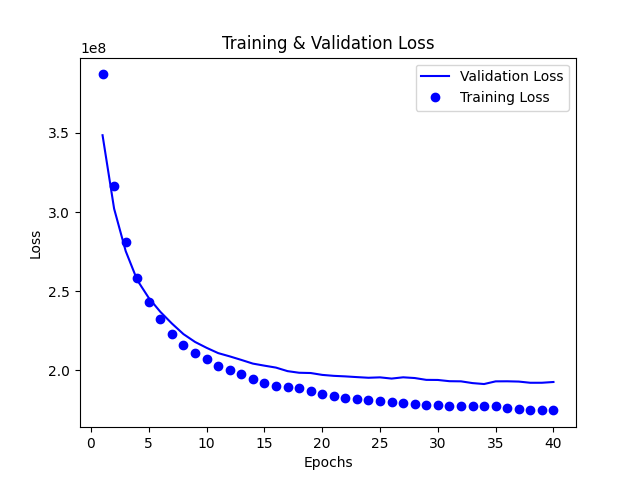
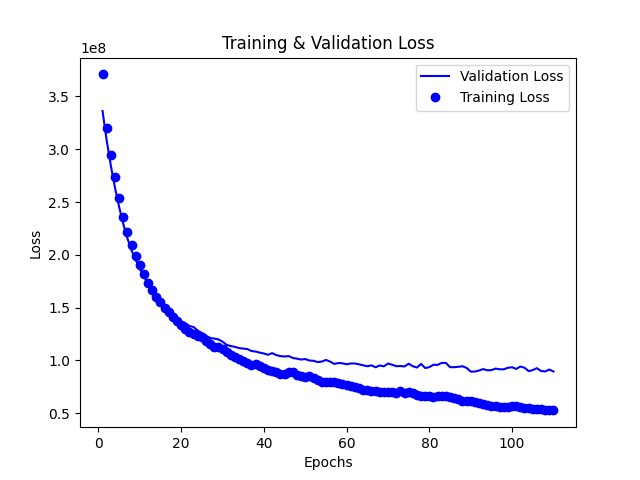
final drnn commit

diff --git a/restore_with_drnn.py b/restore_with_drnn.py
@@ -29,14 +29,15 @@ def run_top_gs_result(num_str, best_config,
     # train_batch_size = 4
     # # TEMP - make what PC can actually handle (3072 run, but definitely 2048)
     # train_batch_size = 6
+    # for smaller
     if low_time_steps:
         train_batch_size = 50   # 50 # 50 sometimes caused OOM
     else:
         train_batch_size = 4    # no dimred & no lowtsteps
     train_loss_const = best_config['gamma']
-    # EVAL CHANGE - for BVS dense layers gs - 0.3 meaningless
-    if low_time_steps:
-        train_loss_const = 0.1 # 0.15 # 0.3    # bad for looped noise & normal piano data
+    # # EVAL CHANGE - for BVS dense layers gs - 0.3 meaningless
+    # if low_time_steps:
+    #     train_loss_const = 0.1 # 0.15 # 0.3    # bad for looped noise & normal piano data
     train_epochs = best_config['epochs']
     # # EVAL CHANGE - change back
     if low_time_steps:
@@ -44,7 +45,7 @@ def run_top_gs_result(num_str, best_config,
     # train_epochs = 15 # TEMP - optimize learning
     # TEMP - exploit high epochs
     if train_epochs > 10:
-        patience = 10
+        patience = 10 # 20
     train_opt_name = best_config['optimizer']
     train_opt_clipval = None if (best_config['clip value'] == -1) else best_config['clip value']
     train_opt_lr = best_config['learning rate']
@@ -115,6 +116,7 @@ def run_top_gs_result(num_str, best_config,
         print('\nERROR happened in child and it died')
         exit(1)
     process_train.join()
+    recv_end.close()    # new, hopefully stops data persistence between eval_src_sep calls
 
     epoch_r = range(1, len(losses)+1)
     plt.plot(epoch_r, val_losses, 'b', label = 'Validation Loss')
@@ -125,7 +127,6 @@ def run_top_gs_result(num_str, best_config,
     plt.legend()
     plt.savefig('brahms_restore_ml/drnn/train_val_loss_chart' + name + '.png')
 
-    send_end, recv_end = None, None     # strange behavior fix?
     # evaluate_source_sep(x_train_files, y1_train_files, y2_train_files, 
     #                     x_val_files, y1_val_files, y2_val_files,
     #                     num_train, num_val,
@@ -183,7 +184,7 @@ def main():
     dmged_piano_only = True    # Promising w/ BVs
     # TRAIN DATA NOISE PARAMS
     loop_bare_noise = False     # to control bare_noise in nn_data_gen, needs curr for low_time_steps
-    artificial_noise = False
+    artificial_noise = True
 
     test_on_synthetic = False
     # wdw_size = PIANO_WDW_SIZE
@@ -192,26 +193,28 @@ def main():
     # gs_output_path = 'brahms_restore_ml/drnn/output_grid_search/'           # for use w/ grid search mode    
     # gs_output_path = 'brahms_restore_ml/drnn/output_grid_search_pc_wb/'     # PC
     # gs_output_path = 'brahms_restore_ml/drnn/output_grid_search_lstm/'    # F35
-    # gs_output_path = 'brahms_restore_ml/drnn/output_grid_search_wb/'        # best results  
+    gs_output_path = 'brahms_restore_ml/drnn/output_grid_search_wb/'        # best results  
     # gs_output_path = 'brahms_restore_ml/drnn/output_grid_search_low_tsteps_two/'       # low tsteps   2 
     # gs_output_path = 'brahms_restore_ml/drnn/output_grid_search_low_tsteps_big/'       # low tsteps   3
-    gs_output_path = 'brahms_restore_ml/drnn/output_grid_search_dmgpiano_bvs/'       # dmgpiano (bvs optional)
+    # gs_output_path = 'brahms_restore_ml/drnn/output_grid_search_dmgpiano_bvs/'       # dmgpiano (bvs optional)
     recent_model_path = 'brahms_restore_ml/drnn/recent_model'
+    # recent_model_path = 'brahms_restore_ml/drnn/recent_model_dmgedp_artn_151of3072'
     # recent_model_path = 'brahms_restore_ml/drnn/recent_model_149of3072'    # restore from curr best
     # recent_model_path = 'brahms_restore_ml/drnn/recent_model_111of144_earlystop'    # restore from curr best
     # recent_model_path = 'brahms_restore_ml/drnn/recent_model_3of4'    # restore from best in small gs
-    # infer_output_path = 'brahms_restore_ml/drnn/output_restore/'
+    infer_output_path = 'brahms_restore_ml/drnn/output_restore/'
     # infer_output_path = 'brahms_restore_ml/drnn/output_restore_gs3072_loopnoise/'    # eval, do_curr_best, 3072 combos, looped noise
     # infer_output_path = 'brahms_restore_ml/drnn/output_restore_151of3072_eval/'    # eval, tweaks curr_best
-    infer_output_path = 'brahms_restore_ml/drnn/output_restore_pbv_eval/'    # eval, tweaks curr_best
+    # infer_output_path = 'brahms_restore_ml/drnn/output_restore_pbv_eval/'    # eval, tweaks curr_best
+    # infer_output_path = 'brahms_restore_ml/drnn/output_restore_pbv_eval_nomask/'    # eval, tweaks curr_best
     brahms_path = 'brahms.wav'
 
     # To run best model configs, data_from_numpy == True & mode == train
-    do_curr_best, curr_best_combos, curr_best_done_on_pc = False, '9', True
+    do_curr_best, curr_best_combos, curr_best_done_on_pc = False, '3072', False
     # # F35 LSTM
     # top_result_nums = [72, 128, 24, 176, 8, 192, 88, 112]
     # F35 WB
-    # top_result_nums = [151] # [151, 151, 151, 151, 151] # temp - do 1 run # [1488, 1568, 149, 1496, 1680, 86, 151, 152]
+    top_result_nums = [151] # [151, 151, 151, 151, 151] # temp - do 1 run # [1488, 1568, 149, 1496, 1680, 86, 151, 152]
     # # # top_result_nums = [1488, 1568, 149, 1496, 1680, 86, 151, 152] 
     # # PC WB
     # top_result_nums = [997, 1184, 1312, 1310, 1311, 1736]
@@ -226,14 +229,17 @@ def main():
     # # Dmg piano data
     # top_result_nums = [1,2,3]
     # Dmg piano w/ BVs data
-    top_result_nums = [3,6,9]
+    # top_result_nums = [3,6,9]
+    # top_result_nums = [1] # try ignore noise loss
+    # top_result_nums = [1,3,1,3]   # for larger help, bs constant
+    # top_result_nums = [1,3,1,3,1,3,1,3]   # for larger help
     top_result_paths = [gs_output_path + 'result_' + str(x) + '_of_' + curr_best_combos +
                         ('.txt' if curr_best_done_on_pc else '_noPC.txt') for x in top_result_nums]
     # NEW
     output_file_addon = ''
-    data_from_numpy = False
+    data_from_numpy = True
     tuned_a430hz = False # may not be helpful, as of now does A=436Hz by default
-    basis_vector_features = True
+    basis_vector_features = False   # bust
     if tuned_a430hz:
         recent_model_path += '_a436hz' # tune_temp '_a430hz'
         output_file_addon += '_a436hz' # tune_temp '_a430hz'
@@ -249,6 +255,9 @@ def main():
     elif not loop_bare_noise:
         recent_model_path += '_stretchn'
         output_file_addon += '_stretchn'
+    if not do_curr_best:
+        recent_model_path += '_151of3072'
+        output_file_addon += '_151of3072'
     if do_curr_best and (len(top_result_nums) == 1) and (mode == 't'):
         recent_model_path += ('_' + str(top_result_nums[0]) + 'of' + str(curr_best_combos))
     if do_curr_best and (len(top_result_nums) == 1) and (mode == 'r'):
@@ -267,7 +276,7 @@ def main():
     # Note: FROM PO-SEN PAPER - about loss_const
     #   Empirically, the value γ is in the range of 0.05∼0.2 in order
     #   to achieve SIR improvements and maintain SAR and SDR.
-    train_batch_size = 100 if low_time_steps else (6 if pc_run else 12)
+    train_batch_size = 50 if low_time_steps else (6 if pc_run else 12)
     # train_batch_size = 3 if pc_run else 12  # TEMP - for no dimreduc
     train_loss_const = 0.1
     train_epochs = 10
@@ -496,21 +505,74 @@ def main():
                     best_config = json.loads(gs_result_file.readline())
 
                     # EVAL EDITS
-                    name_suffix = 'g=0.1_dmgp_pbv'
-                    if i == 0:
-                        # best_config['gamma'] = 0.1
-                        name_suffix += '_1Dense'
-                    elif i == 1:
-                        # best_config['gamma'] = 0.2
-                        name_suffix += '_2Dense'
+                    name_suffix = 'g=0.1_stretchartn_dmgp'
+                    # name_suffix = 'g=0.1_dmgp_pbv'
+                    # if i == 0:
+                    #     name_suffix += '_e150'
+                    #     name_suffix += '_1Dense'
+                    #     best_config['epochs'] = 150
+                    # elif i == 1:
+                    #     name_suffix += '_e150'
+                    #     name_suffix += '_3Dense'
+                    #     best_config['epochs'] = 150
                     # elif i == 2:
-                    #     best_config['gamma'] = 0.3
+                    #     name_suffix += '_e300'
+                    #     name_suffix += '_1Dense'
+                    #     best_config['epochs'] = 300
+                    # else:
+                    #     name_suffix += '_e300'
+                    #     name_suffix += '_3Dense'
+                    #     best_config['epochs'] = 300
+                    # if i == 0:
+                    #     name_suffix += '_e150'
+                    #     name_suffix += '_b10'
+                    #     name_suffix += '_1Dense'
+                    #     best_config['epochs'] = 150
+                    #     best_config['batch_size'] = 10
+                    # elif i == 1:
+                    #     name_suffix += '_e150'
+                    #     name_suffix += '_b10'
+                    #     name_suffix += '_3Dense'
+                    #     best_config['epochs'] = 150
+                    #     best_config['batch_size'] = 10
+                    # elif i == 2:
+                    #     name_suffix += '_e150'
+                    #     name_suffix += '_b40'
+                    #     name_suffix += '_1Dense'
+                    #     best_config['epochs'] = 150
+                    #     best_config['batch_size'] = 40
                     # elif i == 3:
-                    #     best_config['gamma'] = 0.4
-                    else:
-                        name_suffix += '_3Dense'
-                        # best_config['gamma'] = 0.5
-                    # name_suffix = str(best_config['gamma'])
+                    #     name_suffix += '_e150'
+                    #     name_suffix += '_b40'
+                    #     name_suffix += '_3Dense'
+                    #     best_config['epochs'] = 150
+                    #     best_config['batch_size'] = 40
+                    # elif i == 4:
+                    #     name_suffix += '_e300'
+                    #     name_suffix += '_b10'
+                    #     name_suffix += '_1Dense'
+                    #     best_config['epochs'] = 300
+                    #     best_config['batch_size'] = 10
+                    # elif i == 5:
+                    #     name_suffix += '_e300'
+                    #     name_suffix += '_b10'
+                    #     name_suffix += '_3Dense'
+                    #     best_config['epochs'] = 300
+                    #     best_config['batch_size'] = 10
+                    # elif i == 6:
+                    #     name_suffix += '_e300'
+                    #     name_suffix += '_b40'
+                    #     name_suffix += '_1Dense'
+                    #     best_config['epochs'] = 300
+                    #     best_config['batch_size'] = 40
+                    # else:
+                    #     name_suffix += '_e300'
+                    #     name_suffix += '_b40'
+                    #     name_suffix += '_3Dense'
+                    #     best_config['epochs'] = 300
+                    #     best_config['batch_size'] = 40
+
+                    # name_suffix += str(best_config['gamma'])
                     # Temp test for LSTM -> until can grid search
                     # # TEMP - until F35 back up, make managable for PC
                     # if (len(best_config['layers']) < 4) or (len(best_config['layers']) == 4 and best_config['layers'][0]['type'] == 'Dense'):

diff --git a/brahms_restore_ml/drnn/model.py b/brahms_restore_ml/drnn/model.py
@@ -31,17 +31,18 @@ class UnStandardize(Layer):
 # TF Masking layer has too compilcated operations for a lambda, and want to serialize model
 class TimeFreqMasking(Layer):
     # Init is for input-independent variables
-    def __init__(self, epsilon, seq_len, **kwargs):
+    def __init__(self, epsilon, seq_len, use_bv, **kwargs):
         super(TimeFreqMasking, self).__init__(**kwargs)
         self.epsilon = epsilon
         self.seq_len = seq_len
+        self.use_bv = use_bv
 
     # No build method, b/c passing in multiple inputs to layer (no single shape)
 
     def call(self, inputs):
         y_hat_self, y_hat_other, x_mixed = inputs
         mask = tf.abs(y_hat_self) / (tf.abs(y_hat_self) + tf.abs(y_hat_other) + self.epsilon)
-        y_tilde_self = mask[:, :self.seq_len, :] * x_mixed
+        y_tilde_self = y_hat_self[:, :self.seq_len, :] if self.use_bv else (mask[:, :self.seq_len, :] * x_mixed)
         return y_tilde_self
     
     # config only contains things in __init__
@@ -458,10 +459,12 @@ def make_model(features, sequences, name='Model', epsilon=10 ** (-10),
                     ), name='noise_hat') (x)  # source 2 branch
     piano_pred = TimeFreqMasking(epsilon=epsilon, 
                                 seq_len=sequences,  # (TRAIN_SEQ_LEN_SMALL if self.low_time_steps else TRAIN_SEQ_LEN),
+                                use_bv=use_bv,
                                 # low_time_steps=low_tsteps,
                                 name='piano_pred') ((piano_hat, noise_hat, input_layer))
     noise_pred = TimeFreqMasking(epsilon=epsilon, 
                                 seq_len=sequences,
+                                use_bv=use_bv,
                                 # low_time_steps=low_tsteps,
                                 name='noise_pred') ((noise_hat, piano_hat, input_layer))
 

diff --git a/brahms_restore_ml/drnn/drnn.py b/brahms_restore_ml/drnn/drnn.py
@@ -235,7 +235,7 @@ def evaluate_source_sep(x_train_files, y1_train_files, y2_train_files,
     if ret_queue is not None:
         # ret_queue not a queue, it's send end of pipe
         ret_queue.send((history['loss'], history['val_loss']))
-    
+        ret_queue.close()   # new, hopefully stops data persistence in this function call
     else:
         return model
 
@@ -856,8 +856,9 @@ def restore_with_drnn(output_path, recent_model_path,
         # if not write_noise_sig:
         restore_plot_path = os.getcwd() + '/brahms_restore_ml/drnn/eval_spgm_plots/'
         # Eval name detection - gamma
-        eval_param_str = name_addon.split('_')[-1]
-        eval_name, plot_name = ('151of3072_g=0.1_snoise_dmgp_pbv' + eval_param_str), ('2 RNNs, DmgP-StretchN-Data, PianoInc, ' + eval_param_str + ', Gamma = 0.1')
+        eval_param_str = '_' + ('_'.join(name_addon.split('_')[-2:]))
+        eval_name, plot_name = '151of3072_g=0.1_sanoise_dmgp', ('2 RNNs, DmgP-StretchArtN-Data, Adam w/ low LR, Gamma = 0.1')
+        # eval_name, plot_name = ('151of3072_g=0.1_dmgp_pbv' + eval_param_str), ('2 RNNs, DmgP-Data, PianoInc, ' + eval_param_str + ', Gamma = 0.1')
         # eval_name, plot_name = ('151of3072_' + 'g=' + eval_param_str), ('2 RNNs, Adam w/ low LR, Gamma = ' + eval_param_str)
         # eval_name, plot_name = '111of144_lowtsteps', '100 timesteps, Gamma = 0.3, Epochs = 100, Adam w/ GradClip, BS = 100'
         # eval_name, plot_name = '149of3072_lowtsteps_highepochs', '100 Timesteps, Epochs = 100, 2 Bidir-RNNs, Res. Cxn, RMSprop w/ low LR, BS = 50'
